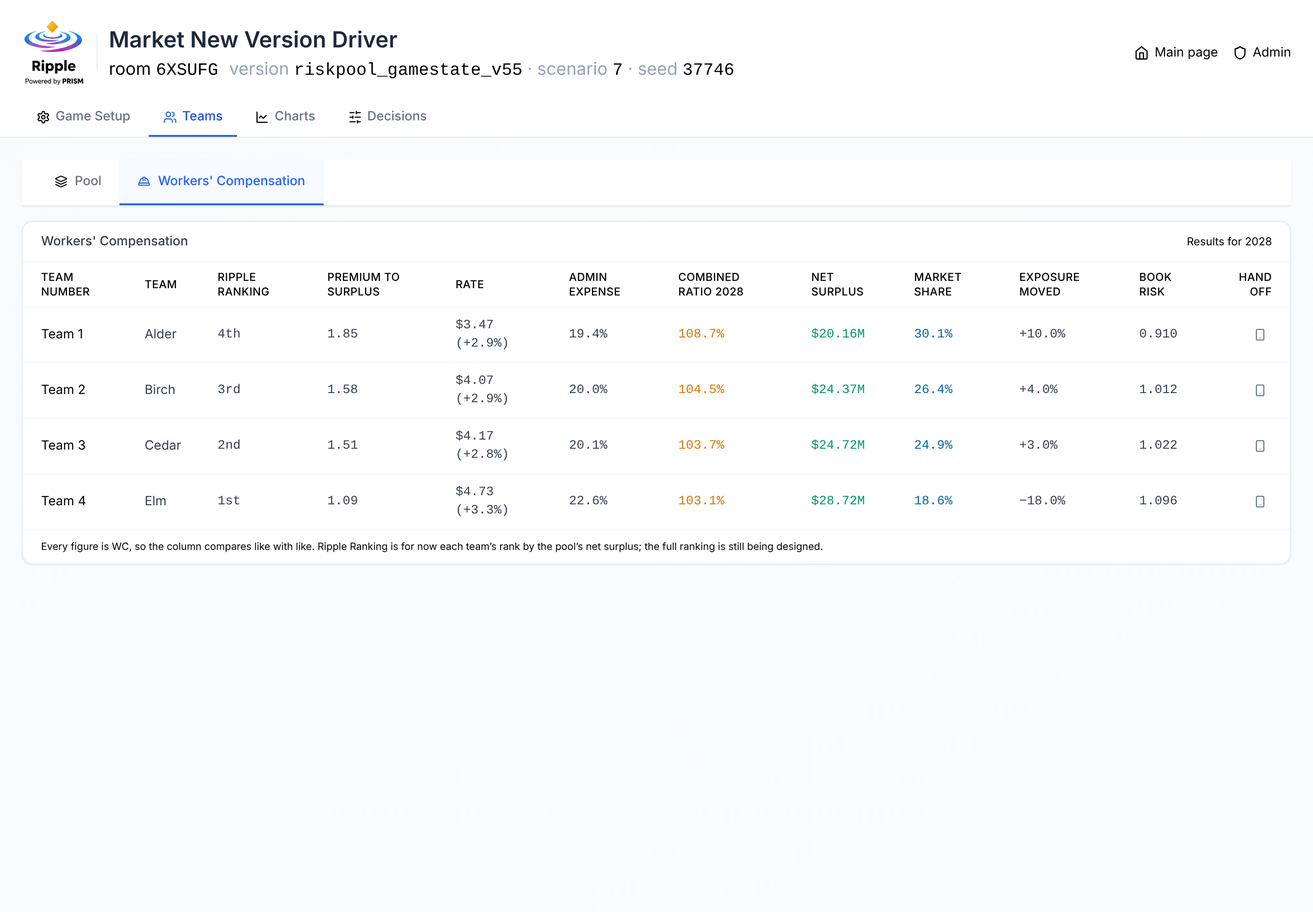
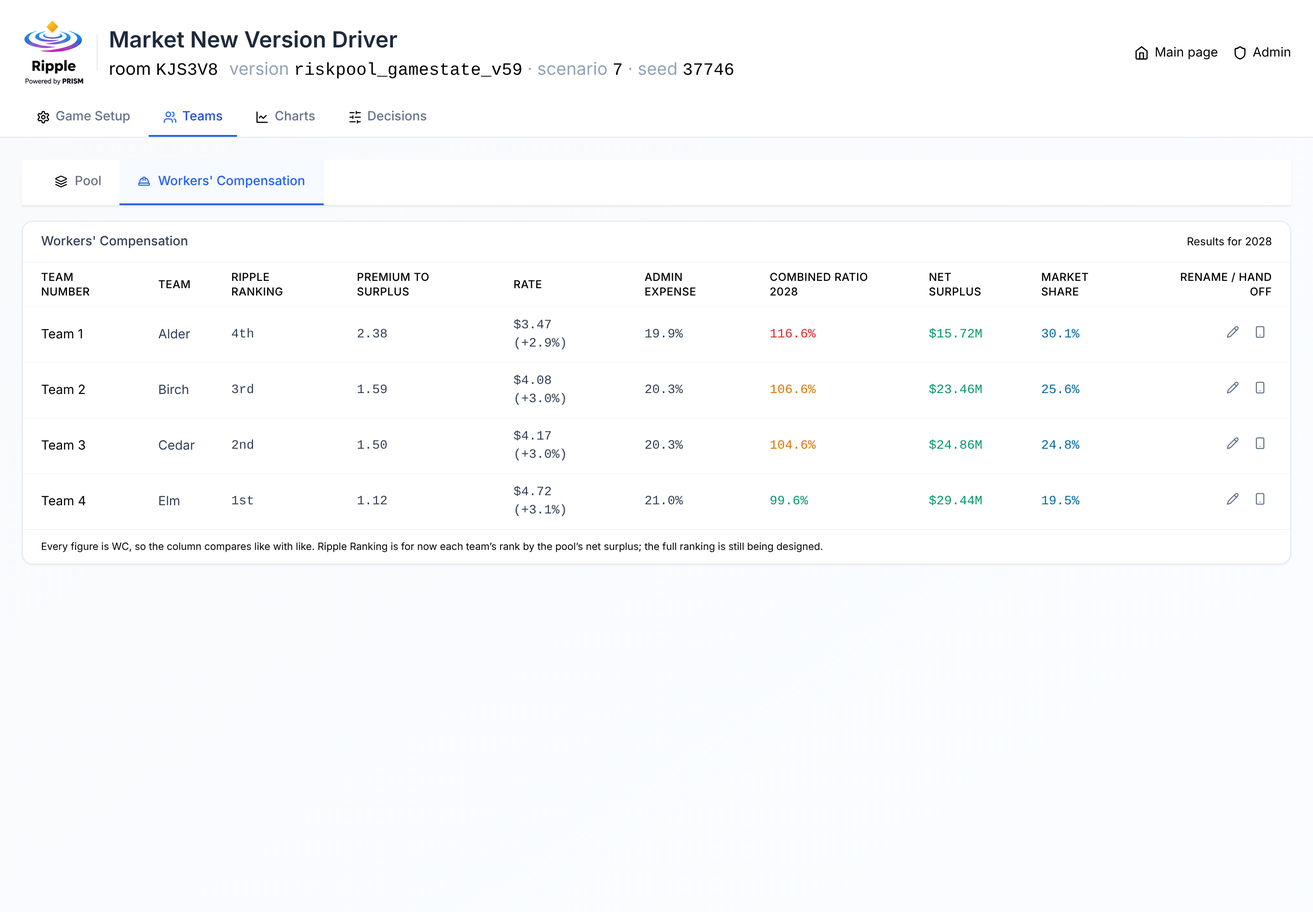
New-version market: fixed admin at 25% of year-1 admin (from 50%)
In New-version market rooms with the market on, at every level, the fixed part
of each team's admin is now 25% of its year-1 admin dollars on the line, still
growing 3% a year, plus 75% of this year's admin as a share of premium; the
overrun as before; the member charge unchanged. k and every other market
setting unchanged. Current rooms, the market Off, single player and Test
player book admin as before. MARKET_NEW_FIXED_ADMIN.share = 0.25.

Why: it eases a shrinking team's admin. Accepted with it: moderate
overpricing (about 75-80% funding) can come out ahead, and +15% beats 0% by up
to 0.08 on two seeds. Measured by the spiral-test chat (scratch switches,
nothing committed; New, Medium, eight room codes, WC only, scenario 4, no
events, adverse development None / None / Low / Low / Mid): five teams 45 /
55 / 65 / 75 / 85%, 2031 surplus 17.0 / 24.9 / 29.0 / 27.5 / 19.5 at 50% ->
14.4 / 22.7 / 27.9 / 27.8 / 22.0 at 25% (65% first 8 -> 3, 75% 0 -> 5); the 85%
team's admin 30.0% -> 25.1%, combined 146.6% -> 141.8%, book kept 39% either
way. Fifteen-team realistic room: 70-75% and 80% split first 4-4. Rate curve,
+15% minus 0%, events off: scenario 20 +0.08, scenario 16 +0.04, the other
three seeds and the 15-team setting still negative. Recorded in the parameters
file (docs/PARAMETERS.md regenerated) and HOW_THE_GAME_WORKS.md. The host's
setup note and Game Setup now read the share from the parameter ("25% of each
team's admin is fixed"); screenshots retaken.
[…]

diff --git a/scripts/diagnostics/market-new-version-check.ts b/scripts/diagnostics/market-new-version-check.ts
@@ -8,7 +8,7 @@
 //
 // 1. THE BRIEF'S VALUES, AS LITERALS IN THIS FILE: k per line and level, the
 //    average leaver at a 10%+ gap, the leaver cap, the fade, the bucket power,
-//    and the fixed admin (50%, +3% a year). The parameters file must carry
+//    and the fixed admin (25%, +3% a year). The parameters file must carry
 //    exactly these. The widened buckets are recomputed here ((raw ÷ 1.02)^m,
 //    renormalised) and must be the engine's; the average leaver is 1.00 at a 1%
 //    gap and the brief's at 10% and beyond. Current's values are untouched.
@@ -21,7 +21,7 @@
 //    room stores no version and moves members differently.
 // 3. THE FIXED ADMIN, PER WORLD. Each New-room team's game is replayed year by
 //    year; in every world, every year and line, the admin it books must be
-//    (0.5 × year-1 admin × 1.03^(year − 1) + 0.5 × this year's admin) × (1 +
+//    (0.25 × year-1 admin × 1.03^(year − 1) + 0.75 × this year's admin) × (1 +
 //    the year's overrun), the overrun read from a twin game on the same stored
 //    market without the version (which books admin as today), and the member
 //    charge (the admin priced) the same in both. A team that never locked (no
@@ -39,7 +39,8 @@
 // CONTROLS, each of which must fail: a recompute on Current's values; on
 // Current's buckets alone; on Current's cap alone; on Current's fade alone; a
 // parameters table with one k changed; the fixed admin recomputed with no trend,
-// with this year's admin as the base, and with no fixed part; a recompute with
+// with this year's admin as the base, with no fixed part, and at 50% (the share
+// before pr/market-fixed-admin-25); a recompute with
 // inherited quality back; a recompute at 1.00 (the value before 0.95); a stored
 // New result with leavers taken in at 0.85.
 // ============================================================================
@@ -88,7 +89,8 @@ const BRIEF = {
   medium: { k: { WC: 2.100, GL: 2.163, Property: 2.160 }, mean: 0.65, cap: 0.25, fade: 0.25, power: 1.75 },
   high: { k: { WC: 3.600, GL: 3.708, Property: 3.702 }, mean: 0.55, cap: 0.30, fade: 0.20, power: 2.25 },
 } as const;
-const BRIEF_FIXED = { share: 0.50, trend: 0.03 };
+/** pr/market-fixed-admin-25: a quarter of year-1 admin fixed (it was 50%), still growing 3% a year. */
+const BRIEF_FIXED = { share: 0.25, trend: 0.03 };
 /** pr/market-new-intake(-095): in New, the members a team takes in arrive at 0.95 — slightly better than average. */
 const BRIEF_INTAKE = 0.95;
 
@@ -314,7 +316,7 @@ async function main() {
     + 'average leaver 0.75/0.65/0.55; cap 20/25/30%; fade 35/25/20%; bucket power 1.25/1.75/2.25');
   control('a table with Medium GL k at 2.200 is refused', tableIsBrief({ ...MARKET_NEW, medium: { ...MARKET_NEW.medium, k: { ...MARKET_NEW.medium.k, GL: 2.200 } } }) ? 0 : 1);
   ok(MARKET_NEW_FIXED_ADMIN.share === BRIEF_FIXED.share && MARKET_NEW_FIXED_ADMIN.trend === BRIEF_FIXED.trend,
-    'the fixed admin is 50% of the year-1 admin dollars, growing 3% a year');
+    'the fixed admin is 25% of the year-1 admin dollars, growing 3% a year');
   ok(MARKET_VERSION_DEFAULT === 'current', 'the default version is Current');
   ok(MARKET_NEW_INTAKE_QUALITY === BRIEF_INTAKE && LEVELS.every(l => marketParams(l, 'new').intakeQuality === BRIEF_INTAKE && marketParams(l, 'current').intakeQuality === null),
     'New takes members in at 0.95 (slightly better than average) at every level; Current keeps inherited quality');
@@ -496,7 +498,7 @@ async function main() {
   {
     const M = rooms.medium;
     const strip = (gs: GameState): GameState => { const { marketVersion: _v, ...setup } = gs.setup; void _v; return { ...gs, setup }; };
-    let probs: string[] = [], noTrend = 0, thisYear = 0, noFixed = 0, worlds = 0, teamsChecked = 0, grew = 0;
+    let probs: string[] = [], noTrend = 0, thisYear = 0, noFixed = 0, half = 0, worlds = 0, teamsChecked = 0, grew = 0;
     // The cheapest, a middle team and the one that lost its book (the others play the same arithmetic).
     for (const i of ['Alder', 'Dogwood', 'Elm'].map(n => plan.findIndex(p => p.name === n))) {
       const me = await t.read({ code: M.code, token: M.tokens[i] });
@@ -509,15 +511,17 @@ async function main() {
       noTrend += fixedProblems(nw, twin, { ...BRIEF_FIXED, trend: 0 }).length;
       thisYear += fixedProblems(nw, twin, { ...BRIEF_FIXED, baseIsThisYear: true }).length;
       noFixed += fixedProblems(nw, twin, { share: 0, trend: 0 }).length;
+      half += fixedProblems(nw, twin, { ...BRIEF_FIXED, share: 0.50 }).length;
       worlds = nw[0].length; teamsChecked++;
       if (plan[i].name === 'Elm') grew = nw[3][0][0].op / twin[3][0][0].op;
     }
-    ok(probs.length === 0 && worlds > 1, `three New-room teams (${teamsChecked}), every world (${worlds}), year and line: admin booked = (0.5 × year-1 admin × 1.03^(year − 1) `
-      + `+ 0.5 × this year's admin) × (1 + the overrun), and the admin charged is the twin's`, probs.slice(0, 4).join('; '));
+    ok(probs.length === 0 && worlds > 1, `three New-room teams (${teamsChecked}), every world (${worlds}), year and line: admin booked = (0.25 × year-1 admin × 1.03^(year − 1) `
+      + `+ 0.75 × this year's admin) × (1 + the overrun), and the admin charged is the twin's`, probs.slice(0, 4).join('; '));
     ok(grew > 1, `Elm, which lost its book to price, books more admin in year 4 than with all admin a share of premium (× ${grew.toFixed(3)}, world 1 WC)`);
     control('the fixed admin recomputed with no trend disagrees', noTrend);
     control('the fixed admin recomputed on this year\'s admin as the base disagrees', thisYear);
     control('the fixed admin recomputed with no fixed part (today\'s admin) disagrees', noFixed);
+    control('the fixed admin recomputed at 50% (the share before pr/market-fixed-admin-25) disagrees', half);
 
     // A team that never locked has no market result: its admin books as today.
     const fir = await t.read({ code: M.code, token: M.tokens[plan.findIndex(p => p.name === 'Fir')] });

diff --git a/src/data/pricingParameters.ts b/src/data/pricingParameters.ts
@@ -2939,7 +2939,7 @@ export const MARKET_OUTSIDE_QUALITY = 'same mix' as const;
 // test seats, the more surplus they ended with, because the 15% leaver cap
 // saturates and the 50% fade erases the selection within two years. The New
 // version makes leaving stronger and more selective, keeps the selection longer,
-// and holds half of each team's admin fixed so that a shrinking book carries its
+// and holds part of each team's admin fixed (25%, MARKET_NEW_FIXED_ADMIN) so a shrinking book carries some of its
 // overheads — so a team's surplus peaks near the indicated rate, not above it.
 //
 // THE MARKET STILL COMPARES WHOLE RATES, cover included: no reinsurance change.
@@ -3004,6 +3004,37 @@ export const MARKET_NEW: Readonly<Record<Exclude<MarketLevel, 'off'>, MarketNewL
 };
 
 /**
+ * FIXED ADMIN AT 25% (pr/market-fixed-admin-25; it was 50%). The fixed part is a
+ * quarter of each team's year-1 admin dollars on the line, still growing 3% a
+ * year, at every level (Low / Medium / High), with k and every other market
+ * setting unchanged.
+ *
+ * ⚠ WHY 25%: it eases a shrinking team's admin. ACCEPTED, knowingly: moderate
+ * overpricing (about 75–80% funding) can come out ahead, and +15% beats 0% by
+ * up to 0.08 on two seeds. Measured by the spiral-test chat (November 2026;
+ * scratch switches on aws 7af0fc6, nothing committed; New, Medium, eight room
+ * codes per room, WC only, scenario 4, no events, adverse development
+ * None / None / Low / Low / Mid):
+ *   five teams 45 / 55 / 65 / 75 / 85% (New Members 10%), 2031 surplus $M:
+ *     50%  17.0 / 24.9 / 29.0 / 27.5 / 19.5 (65% first 8 of 8)
+ *     25%  14.4 / 22.7 / 27.9 / 27.8 / 22.0 (65% first 3, 75% first 5)
+ *     the 85% team: admin 30.0% → 25.1%, combined 146.6% → 141.8%, book kept
+ *     39% either way (the fixed share moves cost, not members);
+ *   fifteen teams, a realistic mix, every team keeping both covers: first
+ *     place 70–75% 7 of 8 and 80% 1 at 50%; 70–75% 4 and 80% 4 at 25%; the 85%
+ *     team admin 23.5% → 21.8%, combined 120.0% → 118.4%;
+ *   the rate curve, six-team setting (two seats at the offset, four at 0%),
+ *     events off, +15% minus 0% (test seats' year-5 surplus ÷ opening):
+ *     82670 −0.17 → −0.03; 88719 −0.22 → −0.04; scenario 20 −0.10 → +0.08;
+ *     scenario 16 −0.07 → +0.04; scenario 1 −0.19 → −0.05; fifteen-team
+ *     setting 82670 −0.32 → −0.16, scenario 20 −0.35 → −0.16. The peak stays
+ *     at +5% (scenario 16 ties +5% and +10% at 25%); −15% falls by 0.12–0.19.
+ * Medium k × 4 would have restored every seed (margin 0.08) and was not
+ * adopted; at 20% no version kept a middle team (65–75%) first in the 15-team
+ * room.
+ *
+ * THE ORIGINAL TEXT, AT 50%:
+ *
  * FIXED ADMIN — New-version rooms with the market on ONLY. Each team's admin
  * booked on a line is `share` × its year-1 admin dollars on that line, grown
  * `trend` a year from year 1, plus (1 − share) × this year's admin as a share of
@@ -3018,7 +3049,7 @@ export const MARKET_NEW: Readonly<Record<Exclude<MarketLevel, 'off'>, MarketNewL
  * into the charge itself was rejected: it reopens the loophole (a shrinking
  * book's rate rises with its fixed admin). 3% a year is the expense trend.
  */
-export const MARKET_NEW_FIXED_ADMIN = { share: 0.50, trend: 0.03 } as const;
+export const MARKET_NEW_FIXED_ADMIN = { share: 0.25, trend: 0.03 } as const;
 
 /**
  * INTAKE QUALITY 0.95 — New-version market rooms only (pr/market-new-intake,
@@ -3502,14 +3533,17 @@ export const PRICING_PARAMETER_SECTIONS: ReadonlyArray<ParameterSection> = [
         value: `${MARKET_NEW_FIXED_ADMIN.share * 100}% of each team's year-1 admin dollars per line, growing `
           + `${MARKET_NEW_FIXED_ADMIN.trend * 100}% a year`,
         unit: 'of the admin booked, New-version rooms with the market on only',
-        what: 'The admin booked is the fixed part plus the other half of this year\'s admin as a share of premium, then '
+        what: 'The admin booked is the fixed part plus the rest of this year\'s admin as a share of premium, then '
           + 'the year\'s overrun as today. The member charge is unchanged. Current rooms, rooms with the market Off, '
           + 'Single player and Test player book admin as today.',
         basis: 'CHOSEN',
         note: 'Measured (lever-test chat): with all admin a share of premium a shrinking book sheds its overheads, so '
           + 'overpricing costs nothing. Applied to every game it rewards growth in single player (+0.45 of surplus for '
           + 'New Members 10% against 0%), so it is held to market rooms; charging the fixed part in the rate was '
-          + 'rejected (it reopens the loophole). 3% a year is the expense trend.',
+          + 'rejected (it reopens the loophole). 3% a year is the expense trend. Set to 25% (from 50%) to ease a '
+          + 'shrinking team\'s admin (five-team room, the 85% team: admin 30.0% → 25.1%, combined 146.6% → 141.8%), '
+          + 'accepting that moderate overpricing (about 75–80% funding) can come out ahead and that +15% beats 0% by '
+          + 'up to 0.08 on two seeds (scenarios 20 and 16, Medium, events off; spiral-test chat).',
       }],
     ],
   },

diff --git a/src/utils/gameSave.ts b/src/utils/gameSave.ts
@@ -153,7 +153,7 @@ import { newLossEngineRuns } from '../data/pricingParameters';
  * comment asking the next reader to keep them in step by hand. That is the
  * keyed-lookup defect in its plainest form.
  */
-export const SAVE_KEY = 'riskpool_gamestate_v57';
+export const SAVE_KEY = 'riskpool_gamestate_v59';
 
 /**
  * ⚠ v11 SINCE LOSS ENGINE COMMIT 4a — A REAL SCHEMA CHANGE. A team's decision is
@@ -363,7 +363,13 @@ export const SAVE_KEY = 'riskpool_gamestate_v57';
 // market room's members taken in now arrive at 0.95, not 1.00, so its stored
 // results and every later year's step differ from a v56 save's. Single player,
 // Test player and Current rooms play as before. v56 is retired.
-export const RETIRED_SAVE_KEYS: readonly string[] = ['riskpool_gamestate_v10', 'riskpool_gamestate_v11', 'riskpool_gamestate_v12', 'riskpool_gamestate_v13', 'riskpool_gamestate_v14', 'riskpool_gamestate_v15', 'riskpool_gamestate_v16', 'riskpool_gamestate_v17', 'riskpool_gamestate_v18', 'riskpool_gamestate_v19', 'riskpool_gamestate_v20', 'riskpool_gamestate_v21', 'riskpool_gamestate_v22', 'riskpool_gamestate_v23', 'riskpool_gamestate_v24', 'riskpool_gamestate_v25', 'riskpool_gamestate_v26', 'riskpool_gamestate_v27', 'riskpool_gamestate_v28', 'riskpool_gamestate_v29', 'riskpool_gamestate_v30', 'riskpool_gamestate_v31', 'riskpool_gamestate_v32', 'riskpool_gamestate_v33', 'riskpool_gamestate_v34', 'riskpool_gamestate_v35', 'riskpool_gamestate_v36', 'riskpool_gamestate_v37', 'riskpool_gamestate_v38', 'riskpool_gamestate_v39', 'riskpool_gamestate_v40', 'riskpool_gamestate_v41', 'riskpool_gamestate_v42', 'riskpool_gamestate_v43', 'riskpool_gamestate_v44', 'riskpool_gamestate_v45', 'riskpool_gamestate_v46', 'riskpool_gamestate_v47', 'riskpool_gamestate_v48', 'riskpool_gamestate_v49', 'riskpool_gamestate_v50', 'riskpool_gamestate_v51', 'riskpool_gamestate_v52', 'riskpool_gamestate_v53', 'riskpool_gamestate_v54', 'riskpool_gamestate_v55', 'riskpool_gamestate_v56'];
+// ⚠ v59: NEW-VERSION FIXED ADMIN AT 25% (pr/market-fixed-admin-25). A
+// New-version market room's admin booked now holds 25% of year-1 admin fixed,
+// not 50%, so its results — which a reload replays — differ from a v57 save's.
+// Single player, Test player and Current rooms play as before. v57 is retired.
+// ⚠ v58 IS SKIPPED, NOT RETIRED: it is pr/named-scenarios', open and not yet
+// merged, so no two pull requests share a key.
+export const RETIRED_SAVE_KEYS: readonly string[] = ['riskpool_gamestate_v10', 'riskpool_gamestate_v11', 'riskpool_gamestate_v12', 'riskpool_gamestate_v13', 'riskpool_gamestate_v14', 'riskpool_gamestate_v15', 'riskpool_gamestate_v16', 'riskpool_gamestate_v17', 'riskpool_gamestate_v18', 'riskpool_gamestate_v19', 'riskpool_gamestate_v20', 'riskpool_gamestate_v21', 'riskpool_gamestate_v22', 'riskpool_gamestate_v23', 'riskpool_gamestate_v24', 'riskpool_gamestate_v25', 'riskpool_gamestate_v26', 'riskpool_gamestate_v27', 'riskpool_gamestate_v28', 'riskpool_gamestate_v29', 'riskpool_gamestate_v30', 'riskpool_gamestate_v31', 'riskpool_gamestate_v32', 'riskpool_gamestate_v33', 'riskpool_gamestate_v34', 'riskpool_gamestate_v35', 'riskpool_gamestate_v36', 'riskpool_gamestate_v37', 'riskpool_gamestate_v38', 'riskpool_gamestate_v39', 'riskpool_gamestate_v40', 'riskpool_gamestate_v41', 'riskpool_gamestate_v42', 'riskpool_gamestate_v43', 'riskpool_gamestate_v44', 'riskpool_gamestate_v45', 'riskpool_gamestate_v46', 'riskpool_gamestate_v47', 'riskpool_gamestate_v48', 'riskpool_gamestate_v49', 'riskpool_gamestate_v50', 'riskpool_gamestate_v51', 'riskpool_gamestate_v52', 'riskpool_gamestate_v53', 'riskpool_gamestate_v54', 'riskpool_gamestate_v55', 'riskpool_gamestate_v56', 'riskpool_gamestate_v57'];
 
 /**
  * Fields dropped on the way out.

diff --git a/scripts/gates.ts b/scripts/gates.ts
@@ -302,7 +302,7 @@ const FAST: string[] = [
                                      //        recovery on every claim size, each year's price by the
                                      //        workbook's method at the T claims' own growth factor
   'market-step-check',               //  ~47s  pr/market-competition: what a room at each level stores, recomputed independently from the posted rates (every field, four years, three lines); stale, unlocked and missing teams; the rules (appetite, cheapest, the wide taper's shares and its 20% limit, the same mix, books add up); a supply-short line; the brief's numbers; the engine plays the stored result — controls including today's cutoff and best-first quality (pr/market-l1)
-  'market-new-version-check',        //  ~60s  pr/market-new-version: the brief's New values as literals (k, average leaver, cap, fade, bucket power; fixed admin 50% +3%/yr) and Current's untouched; a New room at each level stored with version 'new', every field of every year recomputed from the brief by a second implementation, the members a team takes in at 0.95 (pr/market-new-intake, -095); the fixed admin per world, year and line against a twin game without the version (the charge unchanged); a team with no market result and a market-Off New room byte-identical to Current — controls on Current's values, buckets, cap and fade, a changed k, the fixed admin with no trend, this year's base and no fixed part, inherited intake quality back, intake at 1.00, and a stored intake at 0.85
+  'market-new-version-check',        //  ~60s  pr/market-new-version: the brief's New values as literals (k, average leaver, cap, fade, bucket power; fixed admin 50% +3%/yr) and Current's untouched; a New room at each level stored with version 'new', every field of every year recomputed from the brief by a second implementation, the members a team takes in at 0.95 (pr/market-new-intake, -095); the fixed admin per world, year and line against a twin game without the version (the charge unchanged); a team with no market result and a market-Off New room byte-identical to Current — controls on Current's values, buckets, cap and fade, a changed k, the fixed admin (25%) with no trend, this year's base, no fixed part and 50%, inherited intake quality back, intake at 1.00, and a stored intake at 0.85
   'clf-stretch-check',               //  ~4s   wip/clf-stretch: each line's funding table is its BaselineCV table stretched about 1.0 to the brief's 95% stop (WC 1.30, GL and Property 1.25), Expected 1.0, the slider, required capital and a played year read it — three controls
   'carry-decisions-check',           //  ~13s  wip/carry-decisions: single player and Test player carry every decision into the next year (carryDecisions; App.tsx's commitYear), the first year on the defaults — each with a control
   'large-claims-from-events-check',  //  ~14s  wip/large-claims-from-events: large claims only from T-shock events (their map level, range x growth, one per line per firing), none with no schedule; the brief's ranges, odds and 2027 cover table; covers and likelihoods in every game — each with a control

diff --git a/src/session/screens/HostCreateScreen.tsx b/src/session/screens/HostCreateScreen.tsx
@@ -26,7 +26,7 @@ import { sessionTransport, isSessionError, type ScheduledShockSpec, type Session
 import type { DevelopmentLevels } from '../contract';
 import { DevelopmentByYearTable, DevelopmentLevelSelect, ShockScheduleFields, type LevelsRow } from '../../components/GameRulesFields';
 import { startingEdits, startingLevelsByYear } from '../../utils/gameEdits';
-import { ADVERSE_DEVELOPMENT_RANGE, ADVERSE_DEVELOPMENT_DEFAULT_LEVEL, MARKET_DEFAULT_LEVEL, MARKET_LEVELS, MARKET_VERSION_DEFAULT, type DevelopmentSetting, type MarketLevel, type MarketVersion } from '../../data/pricingParameters';
+import { ADVERSE_DEVELOPMENT_RANGE, ADVERSE_DEVELOPMENT_DEFAULT_LEVEL, MARKET_DEFAULT_LEVEL, MARKET_LEVELS, MARKET_NEW_FIXED_ADMIN, MARKET_VERSION_DEFAULT, type DevelopmentSetting, type MarketLevel, type MarketVersion } from '../../data/pricingParameters';
 import type { CoverageLine, GameSetupSettings } from '../../types/simulation';
 import { GAME_LENGTH_YEARS } from '../../data/defaultAssumptions';
 import { LINE_FULL_NAME } from '../../utils/lineDisplay';
@@ -368,8 +368,9 @@ export default function HostCreateScreen({ soloTest }: { soloTest?: SoloTestMode
               {marketVersion === 'current'
                 ? 'Current: the market as it plays today.'
                 : <>New (for review): members leave a dearer team more readily, the best risks go first more strongly, and
-                  a book keeps the cost of losing them longer. Half of each team&apos;s admin is fixed at its year-1 dollars,
-                  growing 3% a year, so a shrinking book keeps its overheads.{market === 'off' ? ' With the market Off, New changes nothing.' : ''}</>}
+                  a book keeps the cost of losing them longer. {MARKET_NEW_FIXED_ADMIN.share * 100}% of each team&apos;s admin is
+                  fixed at its year-1 dollars, growing {MARKET_NEW_FIXED_ADMIN.trend * 100}% a year, so a shrinking book keeps
+                  some of its overheads.{market === 'off' ? ' With the market Off, New changes nothing.' : ''}</>}
             </p>
           </div>}
 

diff --git a/src/session/screens/HostRoomScreen.tsx b/src/session/screens/HostRoomScreen.tsx
@@ -23,6 +23,7 @@ import { useRoom } from '../client/useRoom';
 import { eventStatusOf, teamDisplayName, teamLabel } from '../contract';
 import { EditGamePanel } from '../../components/EditGamePanel';
 import type { YearSettings } from '../../utils/gameEdits';
+import { MARKET_NEW_FIXED_ADMIN } from '../../data/pricingParameters';
 
 interface Props {
   code: string;
@@ -440,7 +441,7 @@ export default function HostRoomScreen({ code }: Props) {
                     Market competition: <span className="font-medium text-slate-700">{room!.market![0].toUpperCase() + room!.market!.slice(1)}</span>
                     {' '}· <span data-testid="market-version-shown" className="font-medium text-slate-700">{room!.marketVersion === 'new' ? 'New' : 'Current'} version</span>.
                     Advancing moves members between teams on the rates they locked.
-                    {room!.marketVersion === 'new' ? ' Half of each team\'s admin is fixed at its year-1 dollars, growing 3% a year.' : ''}
+                    {room!.marketVersion === 'new' ? ` ${MARKET_NEW_FIXED_ADMIN.share * 100}% of each team's admin is fixed at its year-1 dollars, growing ${MARKET_NEW_FIXED_ADMIN.trend * 100}% a year.` : ''}
                   </p>
                 )}
                 {(room?.market ?? 'off') === 'off' && room?.marketVersion === 'new' && (

diff --git a/src/utils/simulationEngine.ts b/src/utils/simulationEngine.ts
@@ -637,7 +637,7 @@ interface LineYearContext {
   market?: MarketLineInput;
   /**
    * A NEW-VERSION MARKET ROOM (setup.marketVersion === 'new'): every year that
-   * carries a market result books half of the line's admin fixed
+   * carries a market result books part of the line's admin fixed (25%)
    * (MARKET_NEW_FIXED_ADMIN). False everywhere else, and admin books as before.
    */
   fixedAdmin?: boolean;
@@ -1768,7 +1768,7 @@ export function processLineYear(
   // MARKET_NEW_FIXED_ADMIN): the admin booked is `share` × the line's year-1
   // admin dollars grown `trend` a year, plus (1 − share) × this year's admin as
   // a share of premium; the overrun then applies as before. A book lost to price
-  // leaves its fixed half behind. The member charge (adminExpense, the rate) is
+  // leaves its fixed part behind. The member charge (adminExpense, the rate) is
   // unchanged. Only in a year with a market result: Current rooms, the market
   // Off, a team outside the year's step, single player and Test player all book
   // adminExpense exactly as before.

diff --git a/src/session/contract.ts b/src/session/contract.ts
@@ -1053,7 +1053,7 @@ export interface RoomView {
    * creation. ONLY 'new' IS EVER STORED OR SENT: absent — every room created on
    * Current, and every room stored before the option existed — reads 'current'
    * and plays exactly as before. New plays the reworked market
-   * (pricingParameters.ts MARKET_NEW) and books half of each team's admin fixed
+   * (pricingParameters.ts MARKET_NEW) and books part of each team's admin fixed
    * (MARKET_NEW_FIXED_ADMIN) while the market is on. Every caller sees it.
    */
   marketVersion?: 'new';

diff --git a/docs/PARAMETERS.md b/docs/PARAMETERS.md
@@ -89,7 +89,7 @@ Applied at the DRAW, and on the held pricing path so the two cannot diverge. The
 | New version: leaver cap | `Low 20% · Medium 25% · High 30%` | of the book a year | CHOSEN | A team's willing leavers are capped at this share of its book a year. Today's 15% saturates. Medium was kept at 25% rather than 30%, accepting the far-end miss on scenarios 16 and 1 with events on (year-5 surplus ÷ opening at +25%: 1.01 against 0.88; 0.96 against 0.77). In a sixteen-team room the New version moved 10.6% (Medium) / 13.9% (High) of the members over five years, against 4.4% today. |
 | New version: book risk fade | `Low 35% · Medium 25% · High 20% towards 1.00 a year` | before the year's moves | CHOSEN | A book that lost its best risks keeps the cost longer than in the current market. Today's 50% clears a lost-quality book in 2–3 years and so erased the selection's cost (lever-test chat). |
 | New version: intake quality | `0.95 (book-risk effect; 1.00 is average)` | risk of the members a team takes in, New-version rooms only | CHOSEN | Price leavers and outside members arrive slightly better than average, not at the leavers' much better quality; the team that loses them still loses its better members. Current rooms keep inherited quality. Measured (lever-test chat): in a five-team room at 45 / 55 / 65 / 75 / 85% funding (WC only, scenario 4, no events, eight room codes) inherited quality put the 45% team first in 8 of 8 with the best book in the room; at average quality the 65% team is first in 7 of 8 and the 45% team last in 8 of 8. The rate curve's peak on the five seeds is unchanged (+5%, events off); only the cheap side falls. The dearest team still shrinks and its combined ratio pulls away — this does not address it. Set to 0.95 (from 1.00) so growing teams keep a modest benefit: 2031 surplus in the five-team room 17.0 / 24.9 / 29.0 / 27.5 / 19.5 against 15.4 / 23.6 / 28.3 / 27.1 / 19.5 at 1.00; the middle team first in 16 of 16 room codes across both rooms tested; the cheapest at least $11.2M behind it in every code (0.90 tested too: 65%'s lead over the next team down to $2.6M). |
-| New version: fixed admin | `50% of each team's year-1 admin dollars per line, growing 3% a year` | of the admin booked, New-version rooms with the market on only | CHOSEN | The admin booked is the fixed part plus the other half of this year's admin as a share of premium, then the year's overrun as today. The member charge is unchanged. Current rooms, rooms with the market Off, Single player and Test player book admin as today. Measured (lever-test chat): with all admin a share of premium a shrinking book sheds its overheads, so overpricing costs nothing. Applied to every game it rewards growth in single player (+0.45 of surplus for New Members 10% against 0%), so it is held to market rooms; charging the fixed part in the rate was rejected (it reopens the loophole). 3% a year is the expense trend. |
+| New version: fixed admin | `25% of each team's year-1 admin dollars per line, growing 3% a year` | of the admin booked, New-version rooms with the market on only | CHOSEN | The admin booked is the fixed part plus the rest of this year's admin as a share of premium, then the year's overrun as today. The member charge is unchanged. Current rooms, rooms with the market Off, Single player and Test player book admin as today. Measured (lever-test chat): with all admin a share of premium a shrinking book sheds its overheads, so overpricing costs nothing. Applied to every game it rewards growth in single player (+0.45 of surplus for New Members 10% against 0%), so it is held to market rooms; charging the fixed part in the rate was rejected (it reopens the loophole). 3% a year is the expense trend. Set to 25% (from 50%) to ease a shrinking team's admin (five-team room, the 85% team: admin 30.0% → 25.1%, combined 146.6% → 141.8%), accepting that moderate overpricing (about 75–80% funding) can come out ahead and that +15% beats 0% by up to 0.08 on two seeds (scenarios 20 and 16, Medium, events off; spiral-test chat). |
 
 ## Opening position
 

diff --git a/docs/HOW_THE_GAME_WORKS.md b/docs/HOW_THE_GAME_WORKS.md
@@ -301,11 +301,17 @@ High setting, compares the same whole rates (cover included), and changes four v
   27.1 / 19.5 ($M, 45% to 85%) at 1.00 to 17.0 / 24.9 / 29.0 / 27.5 / 19.5 at 0.95, the middle team is still first
   in every room code tested (16 of 16, with the three-team 35% / Expected / 85% room), and the cheapest team stays
   at least $11.2M behind it.
-- **Fixed admin** (New-version rooms with the market on only): each team's admin booked on a line is 50% of its
-  year-1 admin dollars on that line, growing 3% a year, plus 50% of this year's admin as a share of premium; the
-  year's admin overrun then applies as before. The member charge is unchanged — the rate still prices admin at 20% of
-  premium — so a book lost to price leaves its fixed half behind. Current rooms, rooms with the market Off, Single
-  player and Test player book admin as before.
+- **Fixed admin** (New-version rooms with the market on only, every level): each team's admin booked on a line is
+  25% of its year-1 admin dollars on that line, growing 3% a year, plus 75% of this year's admin as a share of
+  premium; the year's admin overrun then applies as before. The member charge is unchanged — the rate still prices
+  admin at 20% of premium — so a book lost to price leaves its fixed part behind. Current rooms, rooms with the market
+  Off, Single player and Test player book admin as before. The share was 50%; it is 25% to ease a shrinking team's
+  admin. In a five-team room at 45 / 55 / 65 / 75 / 85% funding (WC only, scenario 4, no events, eight room codes)
+  the 85% team's 2031 admin falls from 30.0% to 25.1% and its combined ratio from 146.6% to 141.8%; it still loses
+  61% of its book (the share moves cost, not members). Accepted with it: moderate overpricing (about 75–80% funding)
+  can come out ahead — the 75% team is first in 5 of 8 codes there (the 65% team in the other 3), and in a realistic
+  15-team room 70–75% and 80% split first place 4–4 — and on the rate curve +15% beats 0% by up to 0.08 on two seeds
+  (scenarios 20 and 16, Medium, events off).
 
 Why: measured in hosted rooms, today's market pays for overpricing at every setting (the 15% leaver cap saturates
 and the 50% fade erases the selection). With the New values a team's surplus peaks near the indicated rate. Every
